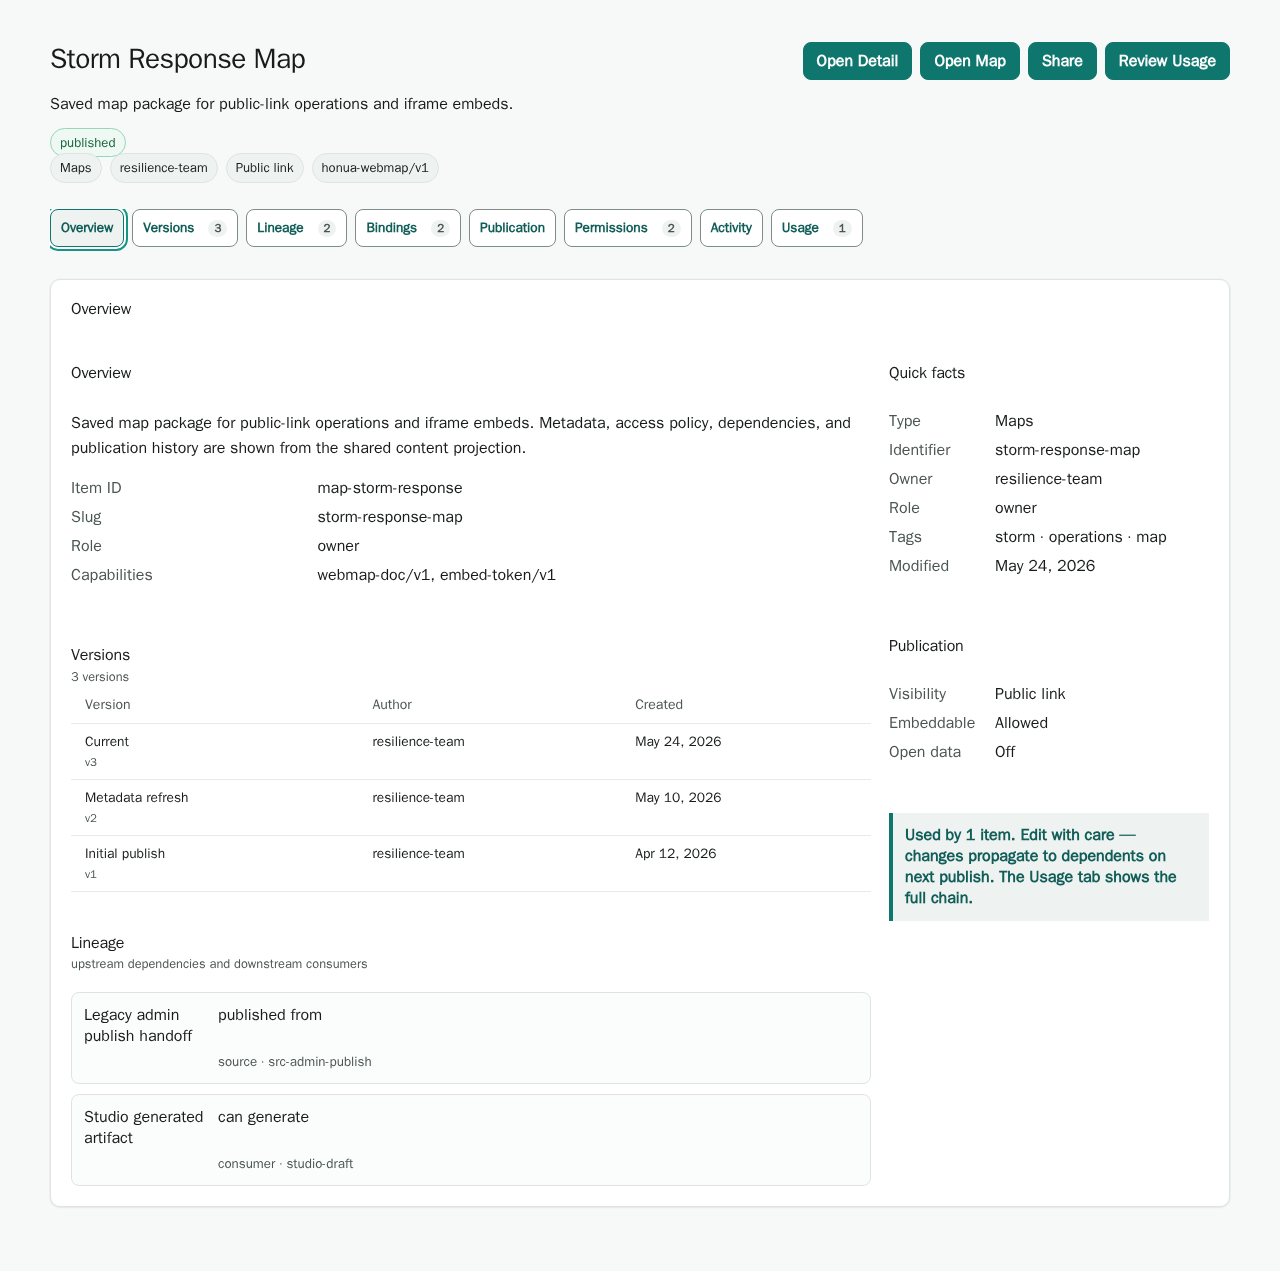
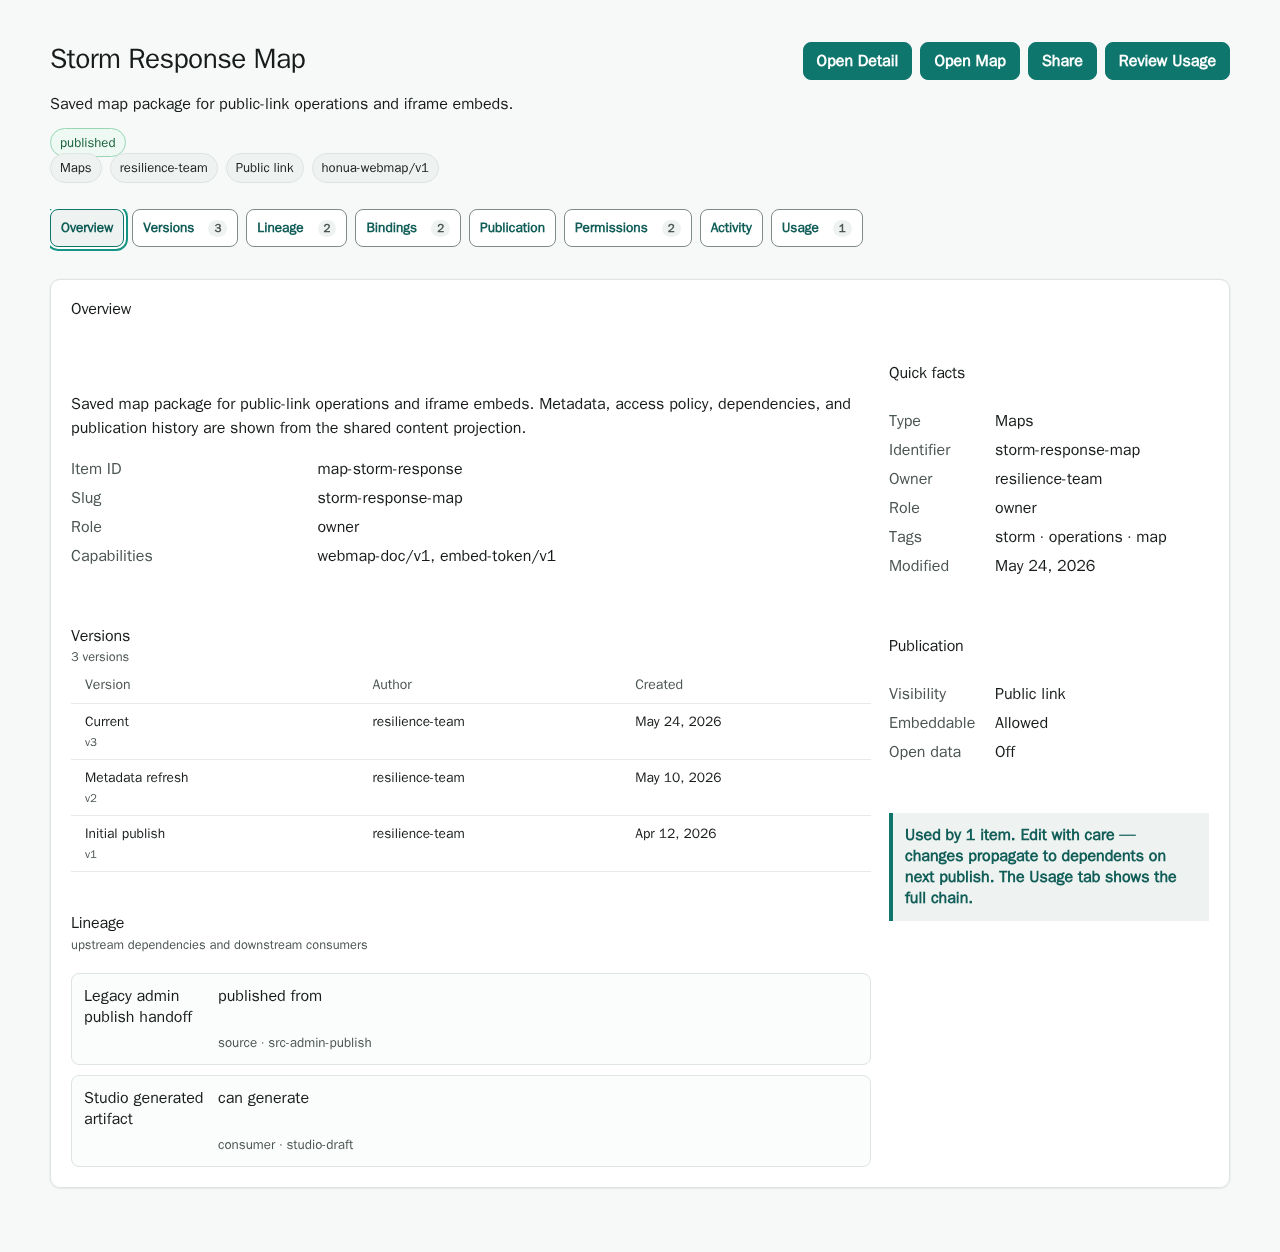
fix(console): remove duplicate catalog overview heading

diff --git a/tests/Honua.Console.IntegrationTests/CatalogBrowseV4Tests.cs b/tests/Honua.Console.IntegrationTests/CatalogBrowseV4Tests.cs
@@ -61,6 +61,7 @@ public sealed class CatalogBrowseV4Tests
         Assert.Equal(8, page.FindAll("nav.console-tab-row a").Count);
         Assert.Contains("Item ID", page.Find(".console-detail-panel").TextContent);
         Assert.NotEmpty(page.FindAll("a.console-button-link"));
+        Assert.Single(page.FindAll("h2, h3").Where(heading => heading.TextContent == "Overview"));
         if (enabled)
         {
             Assert.Single(page.FindAll("nav a[aria-current='page']"));
